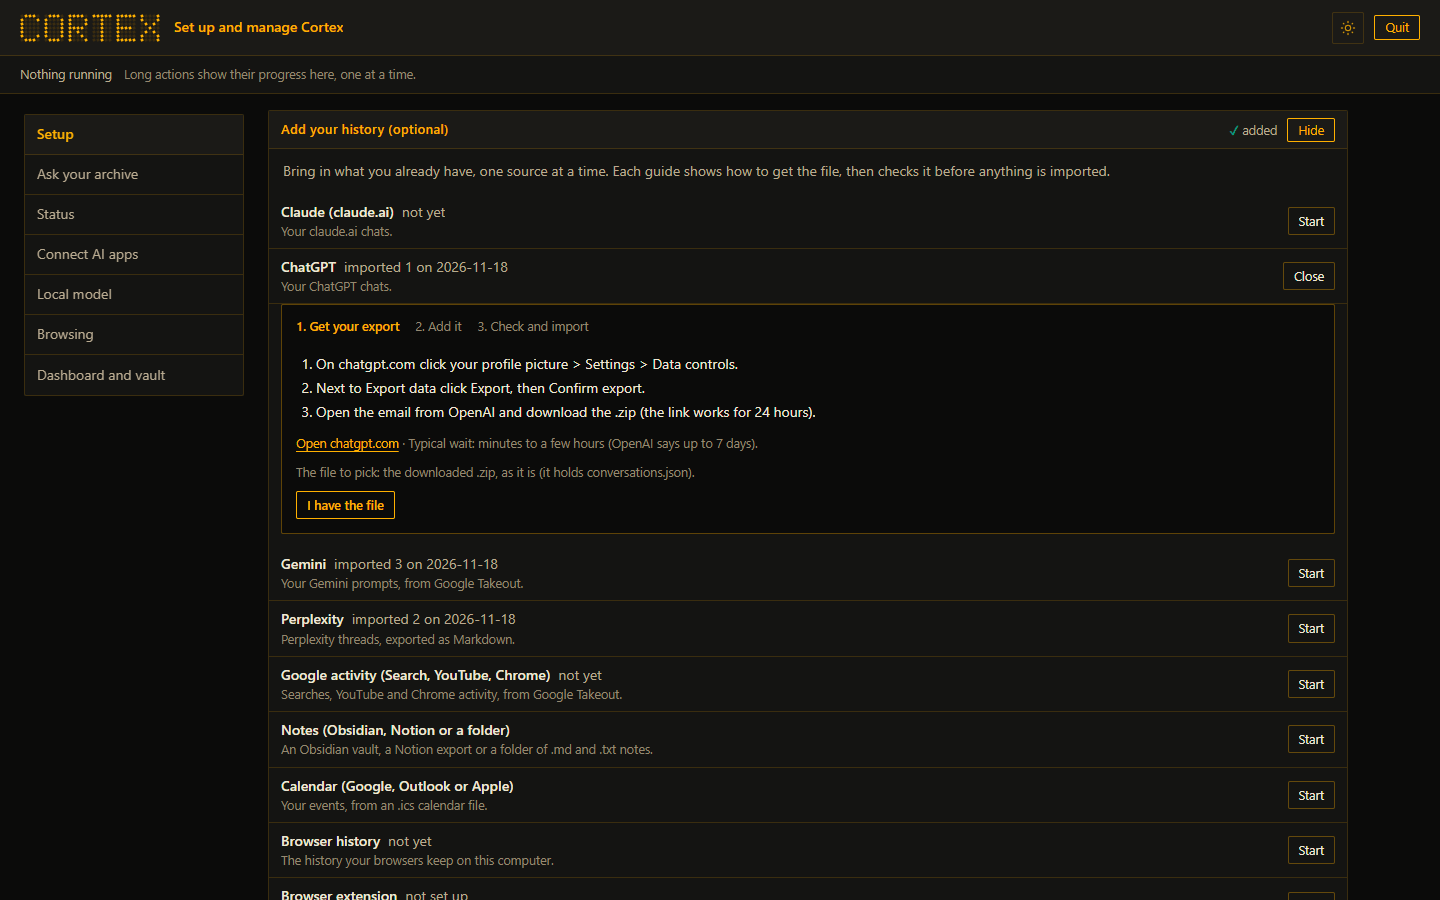
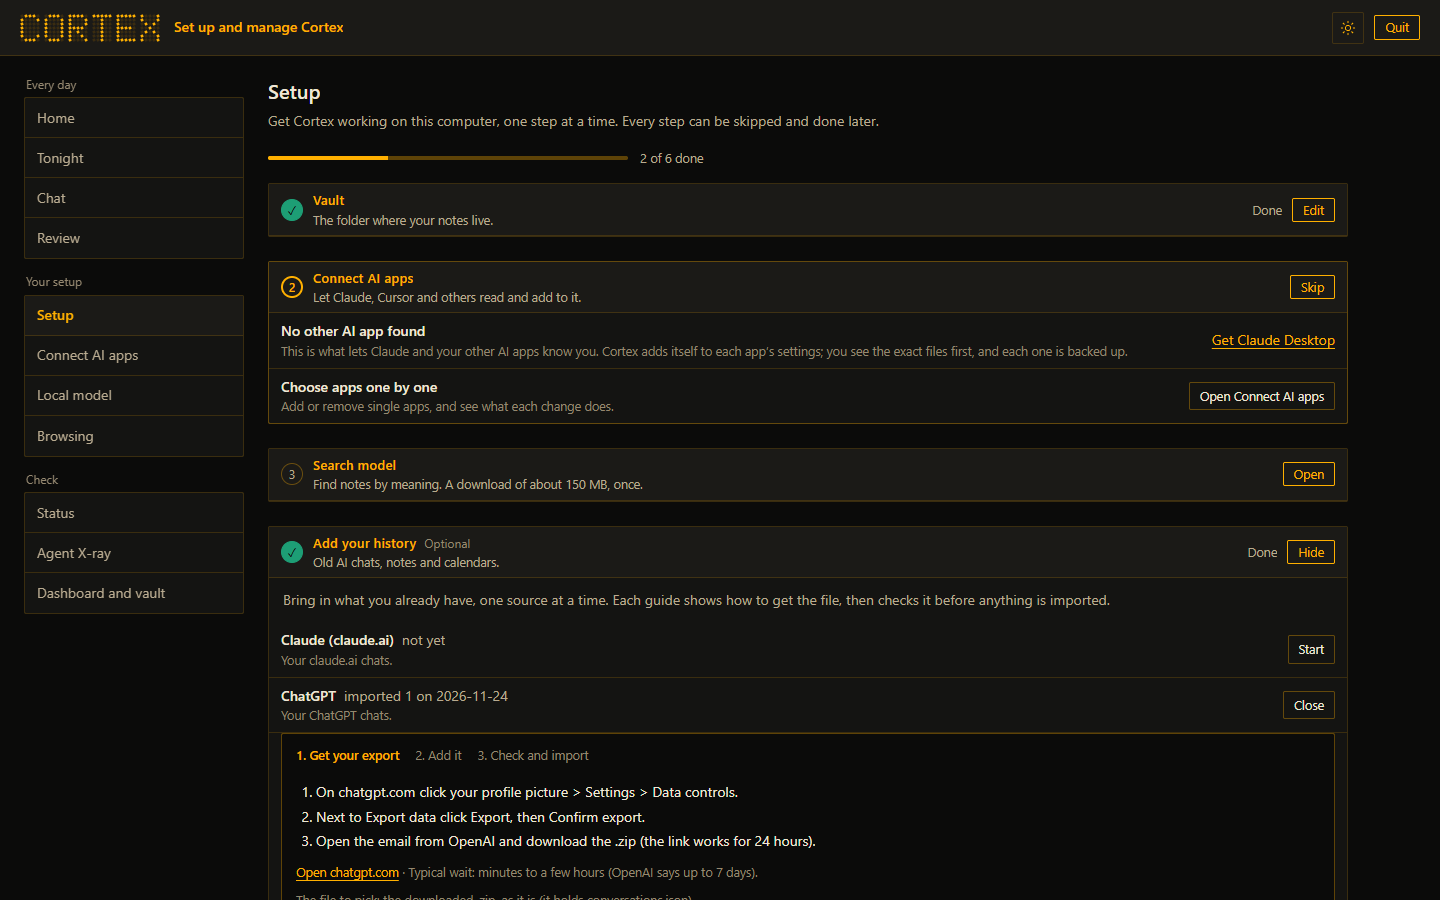
README: screenshots of the app as it is now
Nine of the ten app and dashboard images retaken on the demo vault; app-chat.png is unchanged.

diff --git a/README.md b/README.md
@@ -86,11 +86,11 @@ A **Private switch** in the header (Windows Hello) shows private notes and priva
 
 **Setup** goes one step at a time, and every step can be skipped and done later.
 
-![Setup on a first run: the vault step, then Connect AI apps, search model, history, local model and Try it](docs/images/app-setup.png)
+![Setup as six numbered steps with a progress bar, beside the grouped sidebar: Vault and history done, Connect AI apps next, then search model, local model and Try it](docs/images/app-setup.png)
 
 **Status** shows each part of Cortex on this computer and what to do when one needs you.
 
-![Status: vault, search model, AI apps, local model, browsing and dashboard, each Ready or Off](docs/images/app-status.png)
+![Status: vault, Git, search model, AI apps, local model and browsing history, each Ready or Off, then the saved-chats switch](docs/images/app-status.png)
 
 **Add your history** has a three-step guide for each source: how to get the export, adding the file, then a check of what it found before anything is imported. When a claude.ai, ChatGPT or Google Takeout export lands in your Downloads folder, Home offers to import it in one click.
 
@@ -114,7 +114,7 @@ A **Private switch** in the header (Windows Hello) shows private notes and priva
 
 **Local model** shows the runner (Ollama or LM Studio) and the chosen model, with **Save choice**, **Load** and **Test**, and downloads another Ollama model by name. An optional **Model for background work** lets browsing imports and site descriptions use a larger, slower model than Chat; with 8 GB of graphics memory or less, keep it the same model.
 
-![Local model: Ollama with two models, LM Studio not found, the chosen model, the on switch and the Download board with the size this computer suits](docs/images/app-local-model.png)
+![Local model: Ollama and LM Studio not found, no model chosen yet, the on switch, the background-work model and the Download board](docs/images/app-local-model.png)
 
 ### The home page
 
@@ -134,7 +134,7 @@ The readiness forecast for a test stays hidden until Cortex has 30 checked revie
 
 The **Brain** tab draws your vault as a brain: each topic is a lobe with its own colour, bright fibres are your own links, faint fibres join pages with similar meaning, and a halo marks pages saved in the last 7 days. Below the brain, the stem holds your browsing: one dot per site, sized by visits, glowing by how recently you went there and coloured by category; the **Stem** button flies to it, and clicking a site shows its days and searches. Drag to turn, scroll to zoom, click a page to see its connections. A 2D map and a list are one click away. It uses WebGL2 (the browser's 3D graphics) and falls back to a flat drawing.
 
-![The 3D brain: lobes labelled Programming, Unfiled, About you and others, the stem of browsed websites below them, and filters with an outline on the left](docs/images/dashboard-brain.png)
+![The 3D brain: lobes labelled Programming, Unfiled, About you and others, and filters with an outline on the left](docs/images/dashboard-brain.png)
 
 ### Study planning
 
